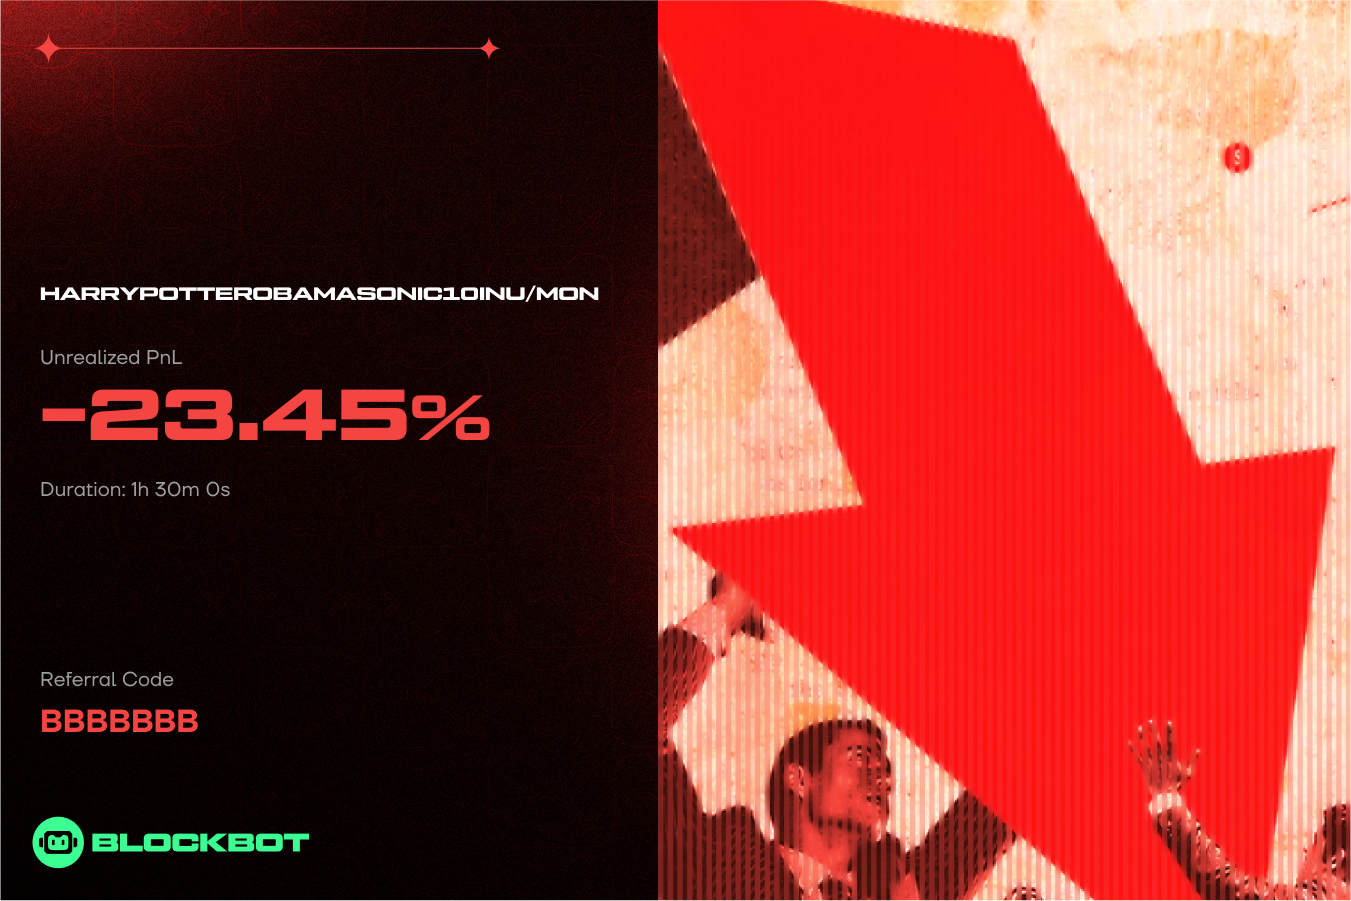
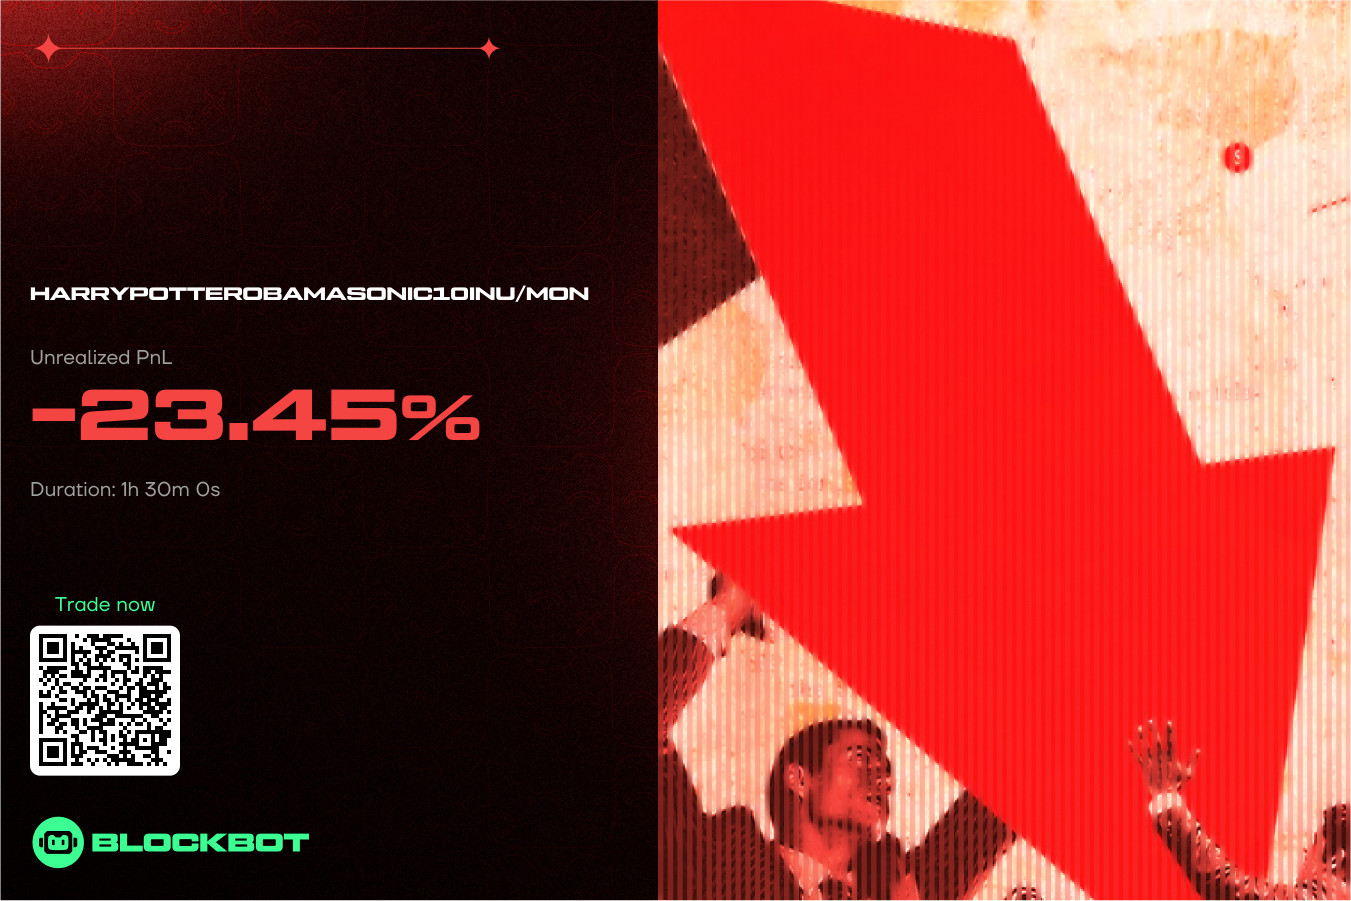
implement QR codes for PnL cards

diff --git a/pnlCard.go b/pnlCard.go
@@ -3,9 +3,13 @@ package main
 import (
 	"bytes"
 	"fmt"
+	"image/color"
+	"math"
 	"strings"
 	"time"
 
+	"github.com/boombuler/barcode"
+	"github.com/boombuler/barcode/qr"
 	"github.com/fogleman/gg"
 )
 
@@ -46,7 +50,6 @@ func generatePNLCard(data PNLCardData) (*bytes.Buffer, error) {
 	dc := gg.NewContextForImage(img)
 	tickerFontSize := 48.0
 	labelFontSize := 20.0
-	referralCodeFontSize := 32.0
 	percentageFontSize := 72.0
 	tickerFont, err := gg.LoadFontFace("./fonts/TacticSansExtExd-Blk.ttf", tickerFontSize)
 	if err != nil {
@@ -59,10 +62,6 @@ func generatePNLCard(data PNLCardData) (*bytes.Buffer, error) {
 	percentageFont, err := gg.LoadFontFace("./fonts/TacticSansExtExd-Blk.ttf", percentageFontSize)
 	if err != nil {
 		return nil, fmt.Errorf("failed to load percentage font: %w", err)
-	}
-	referralCodeFont, err := gg.LoadFontFace("./fonts/TTFirsNeue-DemiBold.ttf", referralCodeFontSize)
-	if err != nil {
-		return nil, fmt.Errorf("failed to load referral code font: %w", err)
 	}
 	mainColor := profitColor
 	if !data.IsProfit {
@@ -107,23 +106,30 @@ func generatePNLCard(data PNLCardData) (*bytes.Buffer, error) {
 	dc.SetHexColor(labelColor)
 	dc.DrawString(duration, xLeft, y)
 
-	referralLabelY := 4.5 * (float64(dc.Height()) / 6.0)
-	referralLabel := "Referral Link"
+	referralLabelY := 4.0 * (float64(dc.Height()) / 6.0)
+	referralLabel := "Trade now"
 	dc.SetFontFace(labelFont)
-	dc.SetHexColor(labelColor)
-	_, fontHeight = dc.MeasureString(referralLabel)
-	dc.DrawStringAnchored(referralLabel, xLeft, referralLabelY, 0, 0.5)
+	dc.SetHexColor(profitColor)
+	fontWidth, fontHeight := dc.MeasureString(referralLabel)
+	minLength := int(math.Min(float64(dc.Width()/6), float64(dc.Height()/6)))
+	x := (float64(minLength)-fontWidth)/2 + xLeft
+	dc.DrawStringAnchored(referralLabel, x, referralLabelY, 0, 0.5)
 
-	referralCodeY := referralLabelY + fontHeight + 20
-	dc.SetFontFace(referralCodeFont)
-	dc.SetHexColor(mainColor)
-	referralCodeFontWidth, _ := dc.MeasureString(data.ReferralCode)
-	for referralCodeFontWidth+xLeft > imgMidPointX {
-		referralCodeFontSize -= 3
-		dc.LoadFontFace("./fonts/TTFirsNeue-DemiBold.ttf", referralCodeFontSize)
-		referralCodeFontWidth, _ = dc.MeasureString(data.ReferralCode)
+	referralCodeY := referralLabelY + fontHeight + 5
+	qrCode, err := qr.Encode(data.ReferralCode, qr.M, qr.Auto)
+	if err != nil {
+		return nil, fmt.Errorf("failed to generate QR code: %w", err)
 	}
-	dc.DrawStringAnchored(data.ReferralCode, xLeft, referralCodeY, 0, 0.5)
+	scaledQr, err := barcode.ScaleWithFill(qrCode, minLength, minLength, color.Transparent)
+	if err != nil {
+		return nil, fmt.Errorf("failed to scale QR code: %w", err)
+	}
+	qrWidth := scaledQr.Bounds().Size().X
+	qrHeight := scaledQr.Bounds().Size().Y
+	dc.DrawRoundedRectangle(xLeft, referralCodeY, float64(qrWidth), float64(qrHeight), 10)
+	dc.SetHexColor(textWhite)
+	dc.Fill()
+	dc.DrawImageAnchored(scaledQr, int(xLeft), int(referralCodeY), 0, 0)
 
 	buf := new(bytes.Buffer)
 	if err := dc.EncodePNG(buf); err != nil {

diff --git a/pnlCard_test.go b/pnlCard_test.go
@@ -8,10 +8,10 @@ import (
 
 func TestGenerateProfitCard(t *testing.T) {
 	data := PNLCardData{
-		TokenPair:      "CHOGSTARRRRRRRRRRRRRR/MON",
-		PercentageGain: "+455555.67%",
+		TokenPair:      "CHOG/MON",
+		PercentageGain: "+45.67%",
 		TradeDuration:  formatDuration(259260 * time.Second),
-		ReferralCode:   "BBBBBBB",
+		ReferralCode:   "https://t.me/Monad_BlockBot?start=r_privatee",
 		IsProfit:       true,
 		BackgroundPath: profitBackground[2],
 	}
@@ -38,7 +38,7 @@ func TestGenerateLossCard(t *testing.T) {
 		TokenPair:      "HARRYPOTTEROBAMASONIC10INU/MON",
 		PercentageGain: "-23.45%",
 		TradeDuration:  formatDuration(1*time.Hour + 30*time.Minute),
-		ReferralCode:   "BBBBBBB",
+		ReferralCode:   "https://t.me/Monad_BlockBot?start=r_privatee",
 		IsProfit:       false,
 		BackgroundPath: lossBackgrounds[0],
 	}
